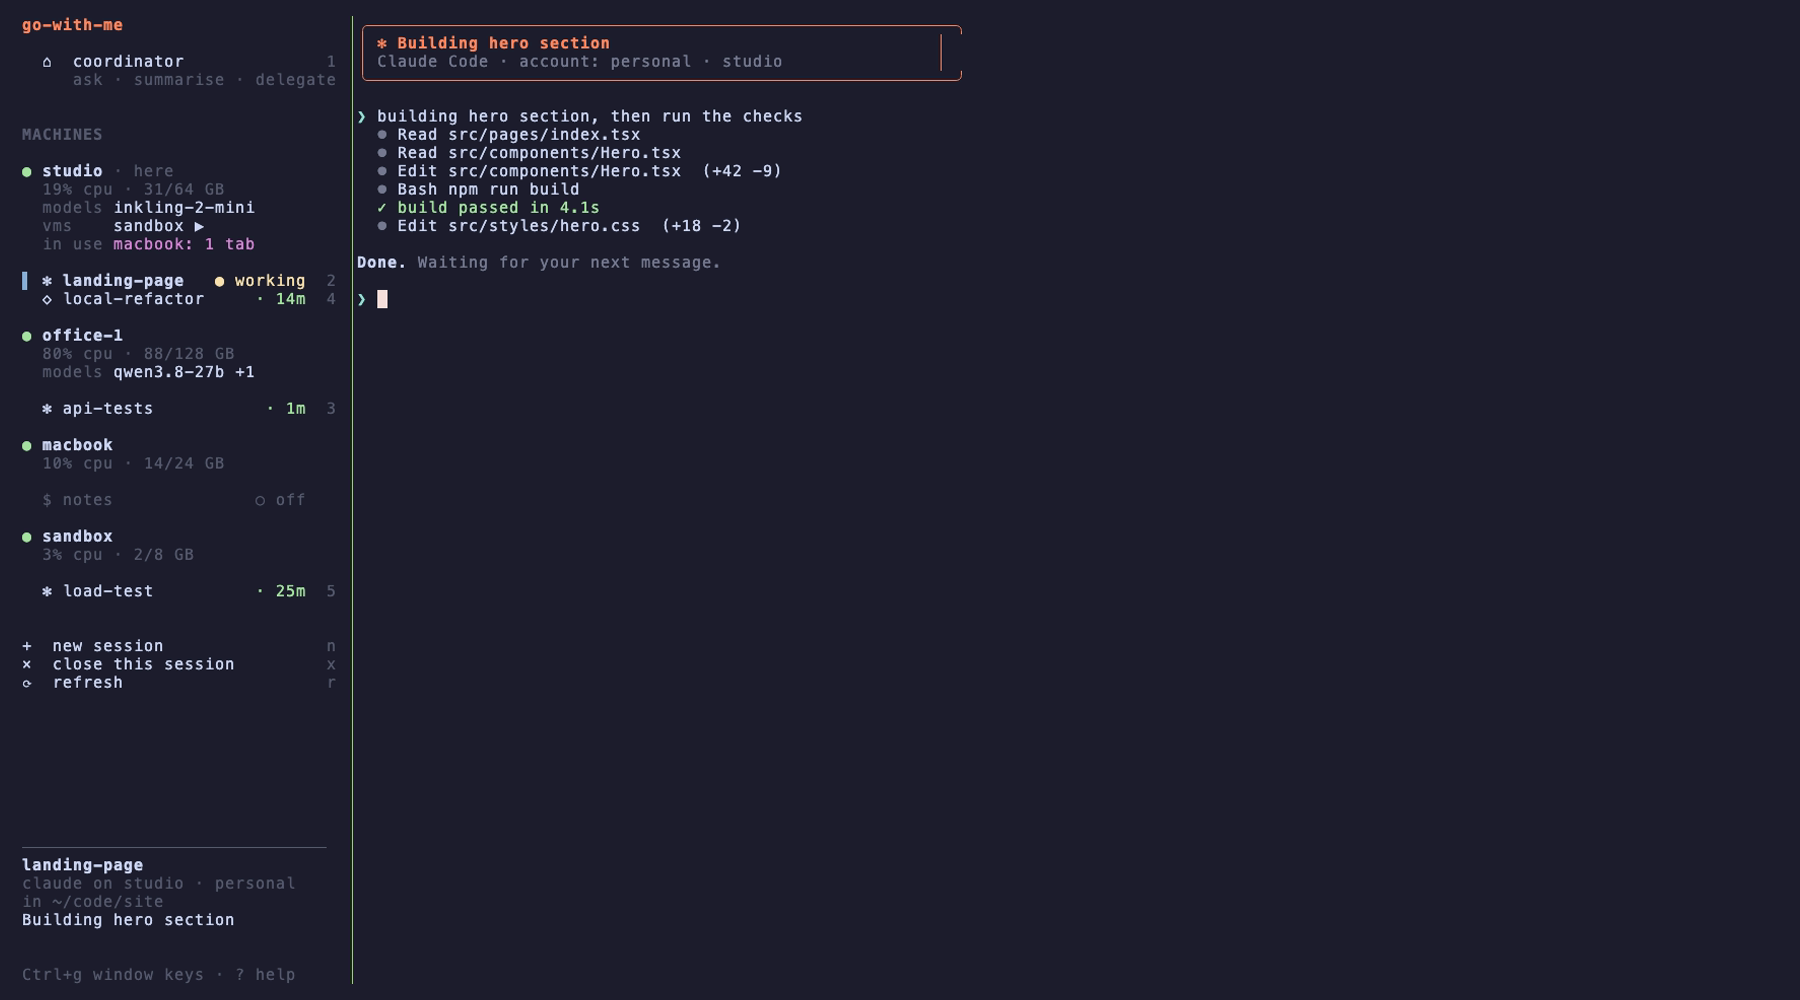
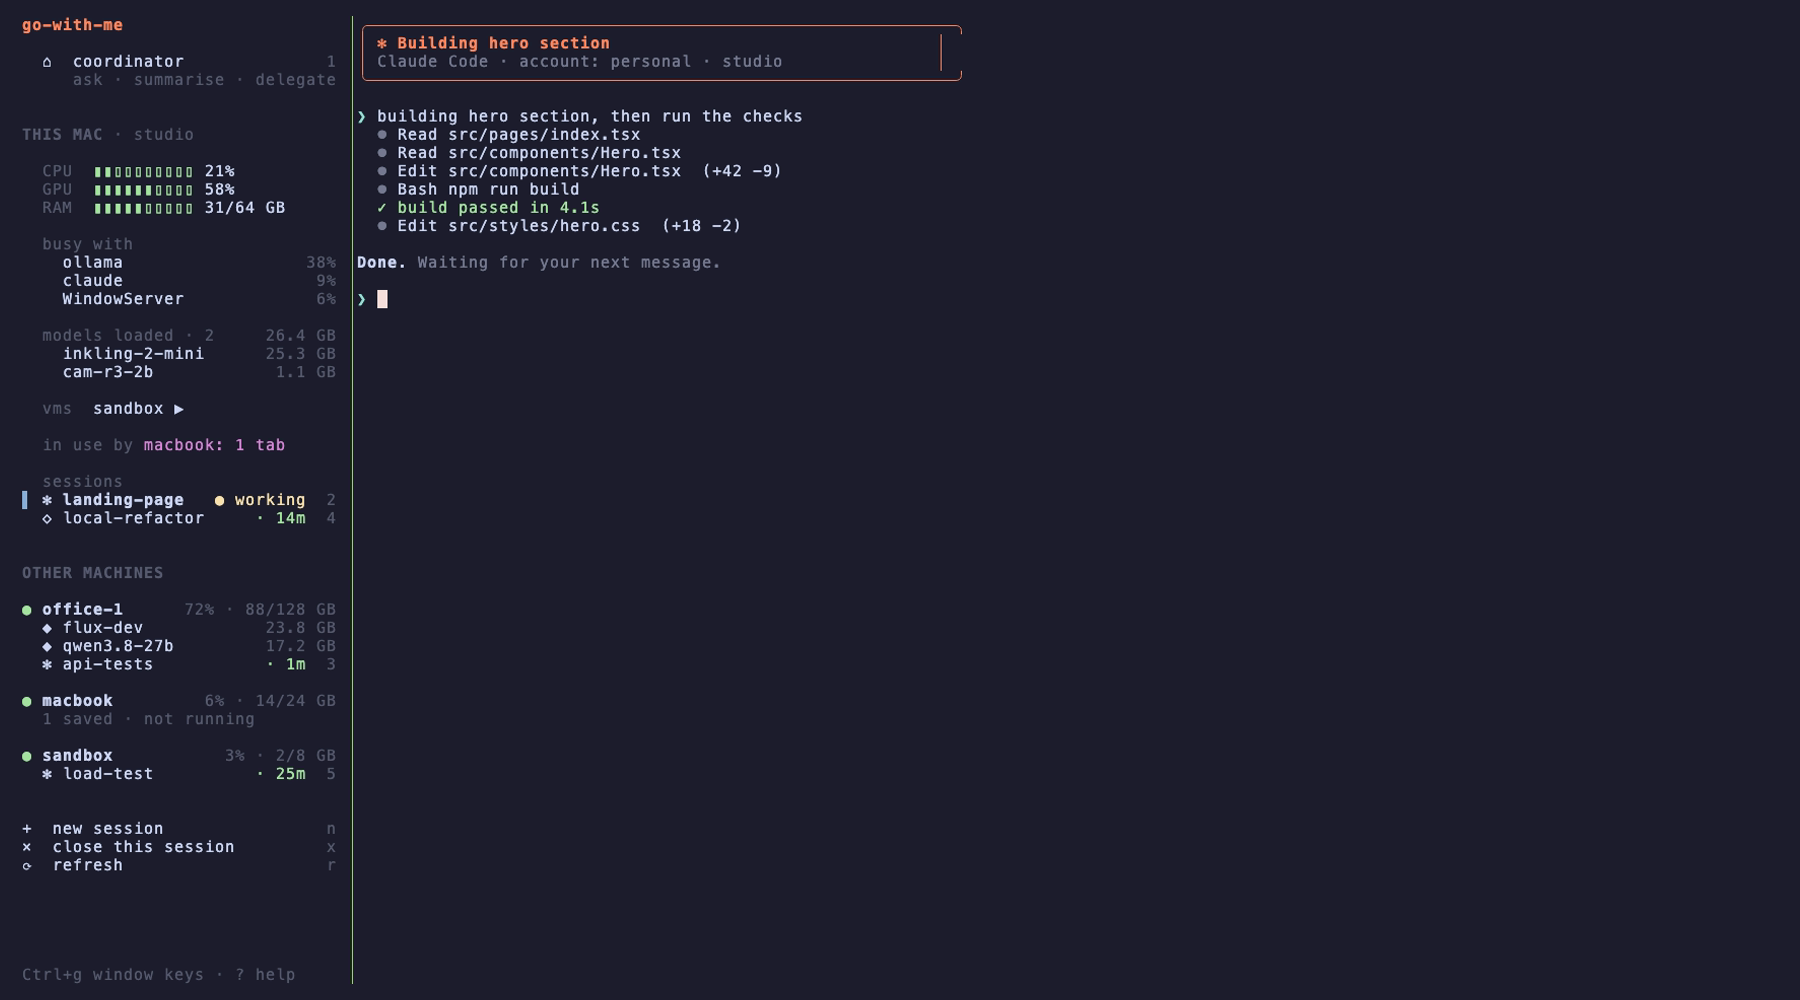
Show every loaded model, focus the sidebar on this Mac, start nothing unasked
- Probe reports GPU utilisation, each loaded Ollama model with its size and
  format, and the top processes. `gwm status` lists every model.
- Sidebar: a detailed "This Mac" card (CPU/GPU/RAM bars, busy with, all
  models, VMs, who's connected, sessions) and compact "Other machines"
  cards; same-named models are labelled by format; scrolls when long;
  softer selection highlight.
- Nothing is started unless asked: sessions that aren't running are hidden
  behind a "N saved" line, the coordinator waits for Enter, `gwm init` saves
  no session and `gwm add` only saves one if you say yes.
- README, setup guide and demo GIF updated.

diff --git a/sidebar.py b/sidebar.py
@@ -18,9 +18,10 @@ ICON = {"claude": "✻", "opencode": "◇", "shell": "$"}
 state = {"self": "", "hosts": [], "sessions": [], "probe": {}, "used": {}, "ok": False}
 tabs = {"list": [], "active": None}
 lock = threading.Lock()
+offset = 0          # sidebar scroll position
 
 # colour pairs
-ACCENT, GREEN, YELLOW, RED, GREY, BLUE, MAGENTA = range(1, 8)
+ACCENT, GREEN, YELLOW, RED, GREY, BLUE, MAGENTA, SEL = range(1, 9)
 
 
 def run(*args, timeout=30):
@@ -51,8 +52,12 @@ def load_data():
             h, kind = p[0], (p[1] if len(p) > 1 else "")
             d = probe.setdefault(h, {"up": False, "sessions": {}})
             if kind == "H":
-                p += [""] * 6
-                d.update(up=True, cpu=p[2], ram=p[3], models=p[4], vms=p[5])
+                p += [""] * 7
+                d.update(up=True, cpu=p[2], ram=p[3], models=p[4], vms=p[5], gpu=p[6], mlist=d.get("mlist", []), top=d.get("top", []))
+            elif kind == "M" and len(p) >= 4:
+                d.setdefault("mlist", []).append((p[2].replace(":latest", ""), p[3], p[4] if len(p) > 4 else ""))
+            elif kind == "P" and len(p) >= 5:
+                d.setdefault("top", []).append((p[2], p[3], p[4]))
             elif kind == "S" and len(p) >= 6:
                 d["sessions"][p[2]] = {"idle": int(p[3] or 0), "att": int(p[4] or 0), "title": p[5]}
     with lock:
@@ -112,8 +117,64 @@ def short_models(m):
 
 
 # ---------------------------------------------------------------- layout
+def model_rows(mlist):
+    """[(label, size)] biggest first; same-named models get their format (e.g. 'gguf') so they can be told apart."""
+    names = [m[0] for m in mlist]
+    out = []
+    for name, sz, fmt in sorted(mlist, key=lambda m: -float(m[1])):
+        fmt = {"safetensors": "mlx"}.get(fmt, fmt)
+        out.append((name + (f" ·{fmt}" if names.count(name) > 1 and fmt else ""), float(sz)))
+    return out
+
+
+def pct(v):
+    try:
+        return max(0.0, min(100.0, float(str(v).rstrip("%"))))
+    except ValueError:
+        return None
+
+
+def ram_pct(ram):
+    try:
+        used, tot = ram.rstrip("G").split("/")
+        return 100.0 * float(used) / float(tot)
+    except Exception:
+        return None
+
+
+def bar(p, width=10):
+    if p is None:
+        return ""
+    full = int(round(p / 100 * width))
+    return "▮" * full + "▯" * (width - full)
+
+
+def level(p):
+    return "dim" if p is None else (RED if p >= 85 else (YELLOW if p >= 60 else GREEN))
+
+
+def session_lines(add, sessions, host, active, num):
+    hidden = 0
+    for s in sessions:
+        if s["host"] != host:
+            continue
+        label, col, _ = session_state(s)
+        if label in ("off", "offline") and s["name"] not in num:
+            hidden += 1                      # saved but not running: don't clutter the list
+            continue
+        is_active = active == s["name"]
+        off = label in ("off", "offline")
+        n = num.get(s["name"])
+        st = {"off": "○ off", "offline": "—"}.get(label, ("● " if label == "working" else "· ") + label)
+        add([(1, "▌" if is_active else " ", "mark"),
+             (3, f"{ICON.get(s['engine'], '·')} {s['name']}", "strong" if is_active else ("dim" if off else "normal")),
+             (-4, st, col), (-1, str(n) if n and n < 10 else "", "dim")], ("tab", s["name"]))
+    if hidden:
+        add([(3, f"{hidden} saved · not running", "dim")], ("act", "saved:" + host))
+
+
 def build():
-    """A list of lines. Each line = (segments, target). segments: [(x, text, attr-key)] ; target: ('tab', name) / ('act', key) / None.
+    """A list of lines. Each line = (segments, target). segments: [(x, text, style)] ; target: ('tab', name) / ('act', key) / None.
     x < 0 means right-aligned that many columns from the edge."""
     with lock:
         hosts, sessions, me = list(state["hosts"]), list(state["sessions"]), state["self"]
@@ -128,43 +189,75 @@ def build():
     add([(1, "▌" if active == "overview" else " ", "mark"), (3, "⌂  coordinator", "strong" if active == "overview" else "normal"),
          (-1, str(num.get("overview", "")), "dim")], ("tab", "overview"))
     add([(6, "ask · summarise · delegate", "dim")])
-    add()
-    add()
-    add([(1, "MACHINES", "heading")])
 
-    for h in hosts:
-        hp = probe.get(h["name"], {})
-        up = hp.get("up")
+    # ---- THIS MAC: everything about the machine you're sitting at
+    here = next((h for h in hosts if h["name"] == me), None)
+    if here:
+        hp = probe.get(me, {})
+        add(); add()
+        add([(1, "THIS MAC", "heading"), (10, "· " + me, "dim")])
         add()
-        add([(1, "●" if up else "○", "ok" if up else "bad"),
-             (3, h["name"], "strong"), (4 + len(h["name"]), "· here" if h["name"] == me else "", "dim"),
-             (-1, "" if up else "offline", "bad")])
-        if up:
-            add([(3, f"{hp.get('cpu', '')} cpu · {hp.get('ram', '').replace('G', ' GB')}", "dim")])
-            m = short_models(hp.get("models"))
-            if m:
-                add([(3, "models ", "dim"), (10, m, "normal")])
-            if hp.get("vms") and hp["vms"] != "-":
-                add([(3, "vms    ", "dim"), (10, hp["vms"].replace(":Running", " ▶").replace(":Stopped", " ■"), "normal")])
-            if used.get(h["name"]):
-                add([(3, "in use ", "dim"), (10, used[h["name"]], "used")])
-        mine = [s for s in sessions if s["host"] == h["name"]]
-        if mine:
+        if hp.get("up"):
+            for label, val, shown in (("CPU", pct(hp.get("cpu")), hp.get("cpu", "")),
+                                      ("GPU", pct(hp.get("gpu")), hp.get("gpu", "")),
+                                      ("RAM", ram_pct(hp.get("ram", "")), hp.get("ram", "").replace("G", " GB"))):
+                if val is None and label == "GPU":
+                    continue
+                add([(3, label, "dim"), (8, bar(val), level(val)), (19, shown, "normal")])
+            top = hp.get("top") or []
+            if top:
+                add()
+                add([(3, "busy with", "dim")])
+                for name, cpu, mem in top[:3]:
+                    add([(5, name[:18], "normal"), (-1, f"{float(cpu):.0f}%", "dim")])
+            mlist = hp.get("mlist") or []
             add()
-        for s in mine:
-            label, col, _ = session_state(s)
-            is_active = active == s["name"]
-            off = label in ("off", "offline")
-            n = num.get(s["name"])
-            st = {"off": "○ off", "offline": "—"}.get(label, ("● " if label == "working" else "· ") + label)
-            add([(1, "▌" if is_active else " ", "mark"),
-                 (3, f"{ICON.get(s['engine'], '·')} {s['name']}", "strong" if is_active else ("dim" if off else "normal")),
-                 (-4, st, col), (-1, str(n) if n and n < 10 else "", "dim")], ("tab", s["name"]))
+            if mlist:
+                total = sum(float(m[1]) for m in mlist)
+                add([(3, f"models loaded · {len(mlist)}", "dim"), (-1, f"{total:.1f} GB", "dim")])
+                for name, sz in model_rows(mlist):
+                    add([(5, name[:22], "normal"), (-1, f"{sz:.1f} GB", "dim")])
+            else:
+                add([(3, "no models loaded", "dim")])
+            if hp.get("vms") and hp["vms"] != "-":
+                add()
+                add([(3, "vms", "dim"), (8, hp["vms"].replace(":Running", " ▶").replace(":Stopped", " ■"), "normal")])
+            if used.get(me):
+                add()
+                add([(3, "in use by", "dim"), (13, used[me], "used")])
+        else:
+            add([(3, "status unavailable", "bad")])
+        if any(s["host"] == me for s in sessions):
+            add()
+            add([(3, "sessions", "dim")])
+            before = len(L)
+            session_lines(add, sessions, me, active, num)
+            if len(L) == before:
+                L.pop(); L.pop()
+
+    # ---- OTHER MACHINES: compact cards
+    others = [h for h in hosts if h["name"] != me]
+    if others:
+        add(); add()
+        add([(1, "OTHER MACHINES", "heading")])
+        for h in others:
+            hp = probe.get(h["name"], {})
+            up = hp.get("up")
+            add()
+            add([(1, "●" if up else "○", "ok" if up else "bad"), (3, h["name"], "strong"),
+                 (-1, f"{hp.get('cpu','')} · {hp.get('ram','').replace('G',' GB')}" if up else "offline", "dim" if up else "bad")])
+            if up:
+                for name, sz in model_rows(hp.get("mlist") or []):
+                    add([(3, "◆ " + name[:20], "normal"), (-1, f"{sz:.1f} GB", "dim")])
+                if hp.get("vms") and hp["vms"] != "-":
+                    add([(3, "vms " + hp["vms"].replace(":Running", " ▶").replace(":Stopped", " ■"), "normal")])
+                if used.get(h["name"]):
+                    add([(3, "in use by " + used[h["name"]], "used")])
+            session_lines(add, sessions, h["name"], active, num)
 
     if not hosts and ok:
         add([(3, "no machines yet — gwm add", "dim")])
-    add()
-    add()
+    add(); add()
     add([(1, "+  new session", "normal"), (-1, "n", "dim")], ("act", "new"))
     add([(1, "×  close this session", "normal"), (-1, "x", "dim")], ("act", "close"))
     add([(1, "⟳  refresh", "normal"), (-1, "r", "dim")], ("act", "refresh"))
@@ -197,7 +290,7 @@ def attr(key, sel=False):
          "ok": curses.color_pair(GREEN), "bad": curses.color_pair(RED), "used": curses.color_pair(MAGENTA)}.get(key)
     if a is None:
         a = curses.color_pair(key) if isinstance(key, int) else 0
-    return a | (curses.A_REVERSE if sel else 0)
+    return (curses.color_pair(SEL) | curses.A_BOLD) if sel else a
 
 
 def draw(scr, L, cursor):
@@ -219,18 +312,30 @@ def draw(scr, L, cursor):
             pass
 
     footer_h = 2
+    global offset
     tgt = L[cursor][1] if 0 <= cursor < len(L) else None
     if not tgt or tgt[0] != "tab":
         with lock:
             tgt = ("tab", tabs["active"]) if tabs["active"] else None
     det = details(tgt)
     room = H - footer_h - (len(det) + 2 if det else 0)
-    for y, (segs, target) in enumerate(L[: max(room, 0)]):
-        sel = (y == cursor and target is not None)
+    if room < len(L) and det:                # not enough space: drop the details panel first
+        det, room = [], H - footer_h
+    room = max(room, 1)
+    offset = max(0, min(offset, len(L) - room))
+    if 0 <= cursor < len(L):                 # keep the highlighted row on screen
+        offset = min(max(offset, cursor - room + 1), cursor)
+    for y, (segs, target) in enumerate(L[offset: offset + room]):
+        i = y + offset
+        sel = (i == cursor and target is not None)
         if sel:
-            put(y, 0, " " * W, curses.A_REVERSE)
+            put(y, 0, " " * W, curses.color_pair(SEL))
         for x, text, key in segs:
             put(y, x, text, attr(key, sel))
+    if offset > 0:
+        put(0, W - 3, "▲", attr("dim"))
+    if offset + room < len(L):
+        put(room - 1, W - 3, "▼", attr("dim"))
     if det and room > 0:
         y = H - footer_h - len(det) - 1
         put(y - 1, 1, "─" * (W - 2), attr("dim"))
@@ -293,6 +398,11 @@ def activate(target):
                 floating(["bash", "-c", f'{GWM} close "{cur}"; sleep 1'], "close session")
         elif key == "refresh":
             threading.Thread(target=load_data, daemon=True).start()
+        elif key.startswith("saved:"):
+            host = key.split(":", 1)[1]
+            floating(["bash", "-c", f'''echo "Saved sessions on {host} (not running):"; echo
+{GWM} sessions | awk -v h="{host}" 'NR==1 || $2==h'; echo
+read -rp "Start which one? (name, or Enter to cancel) " n; [ -n "$n" ] && {GWM} open "$n"'''], "saved sessions")
         elif key == "help":
             floating(["bash", "-c", HELP_CMD], "keys & tips")
 
@@ -305,6 +415,10 @@ def main(scr):
             curses.init_pair(pair, col, -1)
         except curses.error:
             curses.init_pair(pair, curses.COLOR_WHITE, -1)
+    try:
+        curses.init_pair(SEL, -1, 237)          # selected row: a soft grey band, not inverse video
+    except curses.error:
+        curses.init_pair(SEL, curses.COLOR_WHITE, curses.COLOR_BLACK)
     curses.mousemask(curses.ALL_MOUSE_EVENTS | curses.REPORT_MOUSE_POSITION)
     curses.mouseinterval(0)
     scr.timeout(400)
@@ -322,10 +436,16 @@ def main(scr):
                 _, mx, my, _, b = curses.getmouse()
             except curses.error:
                 continue
-            if my in clickable and b & (curses.BUTTON1_CLICKED | curses.BUTTON1_RELEASED | curses.BUTTON1_PRESSED):
-                cursor = my
+            global offset
+            if b & getattr(curses, "BUTTON4_PRESSED", 0):
+                offset = max(0, offset - 3); continue
+            if b & getattr(curses, "BUTTON5_PRESSED", 0):
+                offset += 3; continue
+            row = my + offset
+            if row in clickable and b & (curses.BUTTON1_CLICKED | curses.BUTTON1_RELEASED | curses.BUTTON1_PRESSED):
+                cursor = row
                 if b & (curses.BUTTON1_CLICKED | curses.BUTTON1_RELEASED):
-                    activate(L[my][1]); cursor = -1
+                    activate(L[row][1]); cursor = -1
             continue
         if ch in (curses.KEY_DOWN, ord("j")):
             nxt = [i for i in clickable if i > cursor]; cursor = nxt[0] if nxt else cursor

diff --git a/docs/SETUP.md b/docs/SETUP.md
@@ -75,7 +75,7 @@ sudo tailscale up --ssh          # sign in with the SAME Tailscale account
 gwm init
 ```
 
-It asks for a short name (e.g. `studio`), works out this Mac's address (the Tailscale name if Tailscale is on), creates `~/.config/go-with-me/`, makes an SSH key if needed, and adds a Claude tab for this Mac.
+It asks for a short name (e.g. `studio`), works out this Mac's address (the Tailscale name if Tailscale is on), creates `~/.config/go-with-me/` and makes an SSH key if needed. It doesn't start or save any sessions; you create those when you want them with `gwm new`.
 
 ## 4. Add your other Macs
 
@@ -94,7 +94,7 @@ The wizard:
 5. **Checks the other direction**, so the other Mac can reach this one.
 6. **Installs tmux** there if missing.
 7. **Installs go-with-me** there with the same config, so you can open the hub from either Mac.
-8. **Adds a Claude tab** for it.
+8. **Optionally saves a Claude session** on it (it asks; the default is no, since nothing is started unless you want it).
 
 ```
 $ gwm add --via ssh
@@ -109,7 +109,7 @@ Short name for it [macbook]:
 ✓ Saved as 'macbook' → alexk@Alexs-MacBook-Pro.local
 ✓ 'macbook' can reach this Mac too
 ✓ go-with-me installed on 'macbook' (run gwm there)
-✓ Added session 'macbook'
+Also save a Claude Code session on 'macbook'? (y/n) [n]:
 ```
 
 Switching a Mac from Remote Login to Tailscale later? Run `gwm add <same-name> --via tailscale`; it replaces the old address. Check everything with `gwm doctor`.
@@ -120,8 +120,9 @@ Switching a Mac from Remote Login to Tailscale later? Run `gwm add <same-name> -
 gwm
 ```
 
-- **Tab 1 "overview"**: the board (every machine and session) plus the coordinator Claude
-- **Tabs 2, 3, …**: one per running session, numbered by position
+- **The sidebar** (left): *This Mac* in detail (CPU/GPU/RAM, busy with, every loaded model, VMs, who's connected, its sessions) and a compact card per other machine. Only running sessions are listed; click to jump
+- **Tab 1, the coordinator**: a Claude that can see and steer everything. It waits for you to press **Enter**, so it never starts a session you didn't ask for
+- **Tabs 2, 3, …**: one per running session, numbered by position (shown in the sidebar)
 
 | | |
 |---|---|

diff --git a/README.md b/README.md
@@ -21,7 +21,7 @@ git clone https://github.com/Vayras/go-with-me && cd go-with-me && ./go-with-me 
 <td width="50%"><img src="docs/session-tab.png" alt="A session"></td>
 </tr>
 <tr>
-<td><b>Just a sidebar and a terminal.</b> The sidebar shows one card per machine (CPU, RAM, loaded models, VMs, <i>which other devices are using it</i>) with that machine's sessions right under it: working, idle or off, plus the tab number. Tab 1 is the <b>coordinator</b>, a Claude you can ask "what's going on?" or "tell the VM to rerun the load test".</td>
+<td><b>Just a sidebar and a terminal.</b> <b>This Mac</b> gets a full card: CPU / GPU / RAM bars, what it's busy with, <b>every loaded model</b> and its size, VMs, which other devices are using it, and its running sessions. <b>Other machines</b> get compact cards with their models and sessions. Only sessions that are <i>running</i> are listed; saved ones collapse to one line. Tab 1 is the <b>coordinator</b>, a Claude that starts when you press Enter.</td>
 <td><b>Click a session to jump in</b> (a stopped one starts). Each session runs on its own machine and <b>keeps running</b> when you close your laptop. <b>Alt+1…9</b> also jumps; <b>n</b> new, <b>x</b> close. Select text with the mouse to copy it.</td>
 </tr>
 </table>
@@ -56,7 +56,7 @@ gwm             # open the hub
 
 | Do this | Command |
 |---|---|
-| Open the hub (only running sessions get a tab) | `gwm` |
+| Open the hub (only running sessions get a tab; nothing new is started) | `gwm` |
 | Start a new session (asks machine / engine / account / folder) | `gwm new` |
 | Open a tab for a session that isn't running | `gwm open <session>` |
 | Close a session and its tab | `gwm close <session>` |
